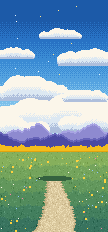
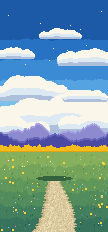
Cleaner home scene art, fix tabs and knock label

diff --git a/src/styles.css b/src/styles.css
@@ -122,7 +122,7 @@ h3 { font-size: 18px; margin-bottom: 8px; }
 .door-glow { position: absolute; left: 12%; top: 40%; width: 76%; aspect-ratio: 1; opacity: 0; z-index: 1;
   background: radial-gradient(circle, rgba(255, 244, 190, 0.95) 0 30%, rgba(255, 244, 190, 0.5) 30% 55%, rgba(255, 244, 190, 0) 55%); }
 .door-glow.on { opacity: 1; animation: pulse 0.6s steps(2) infinite; }
-.knock { position: absolute; left: 0; right: 0; top: 43%; margin: 0; font-size: 22px; color: #fff; text-shadow: 2px 2px 0 var(--navy), -2px 2px 0 var(--navy), 2px -2px 0 var(--navy), -2px -2px 0 var(--navy); animation: blink 1.2s steps(1) infinite; }
+.knock { position: absolute; left: 50%; top: 43%; transform: translateX(-50%); width: max-content; max-width: 92%; margin: 0; padding: 4px 12px; background: var(--cream); color: var(--navy); font-family: var(--f-display); font-weight: 600; font-size: 17px; box-shadow: var(--ol), var(--bevel); animation: blink 1.4s steps(1) infinite; }
 .title { font-family: var(--f-title); font-weight: normal; font-size: 22px; display: flex; flex-direction: column; align-items: center; gap: 14px; margin-top: 6px; }
 .title-row { display: flex; gap: 2px; }
 .title .ch { display: inline-block; color: var(--c, var(--pink)); animation: wob 1.6s steps(2) infinite;
@@ -199,8 +199,8 @@ h3 { font-size: 18px; margin-bottom: 8px; }
 .sticker-handle.resize { right: -6px; bottom: -6px; cursor: nwse-resize; }
 .sticker-handle.rotate { left: 50%; top: -16px; transform: translateX(-50%); cursor: grab; border-radius: 0; }
 
-.editor-tabs { display: flex; gap: 8px; overflow-x: auto; padding: var(--px) var(--px) calc(var(--px) * 3); }
-.editor-tabs button { flex: 1; --px: 3px; min-width: 48px; padding: 10px 2px; background: var(--cream); border: none; font-family: var(--f-display); font-size: 16px; font-weight: 600; white-space: nowrap;
+.editor-tabs { display: flex; gap: 6px; overflow-x: auto; padding: var(--px) var(--px) calc(var(--px) * 3); }
+.editor-tabs button { flex: 1; --px: 3px; min-width: 48px; padding: 10px 1px; background: var(--cream); border: none; font-family: var(--f-display); font-size: clamp(11px, 3.3vw, 16px); font-weight: 600; letter-spacing: -0.3px; white-space: nowrap;
   box-shadow: var(--ol), var(--bevel), var(--slab); }
 .editor-tabs button.active { background: var(--pink); transform: translateY(3px); box-shadow: var(--ol), var(--bevel); }
 
